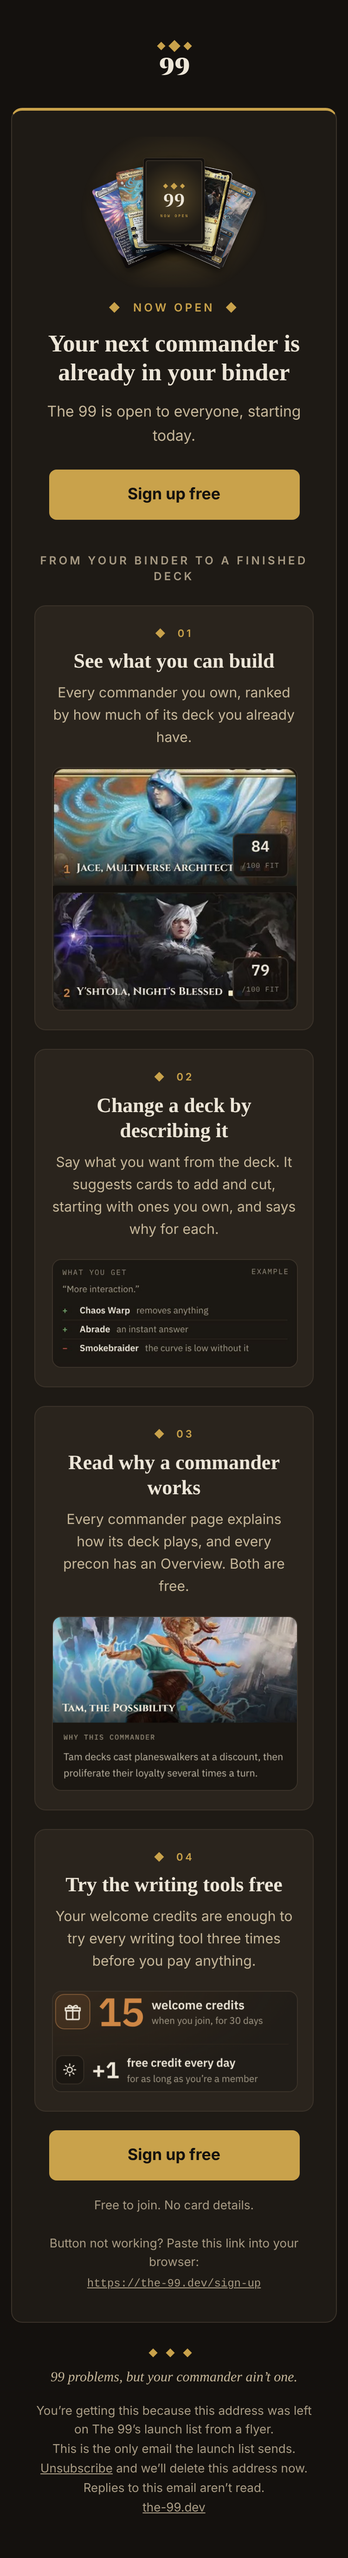
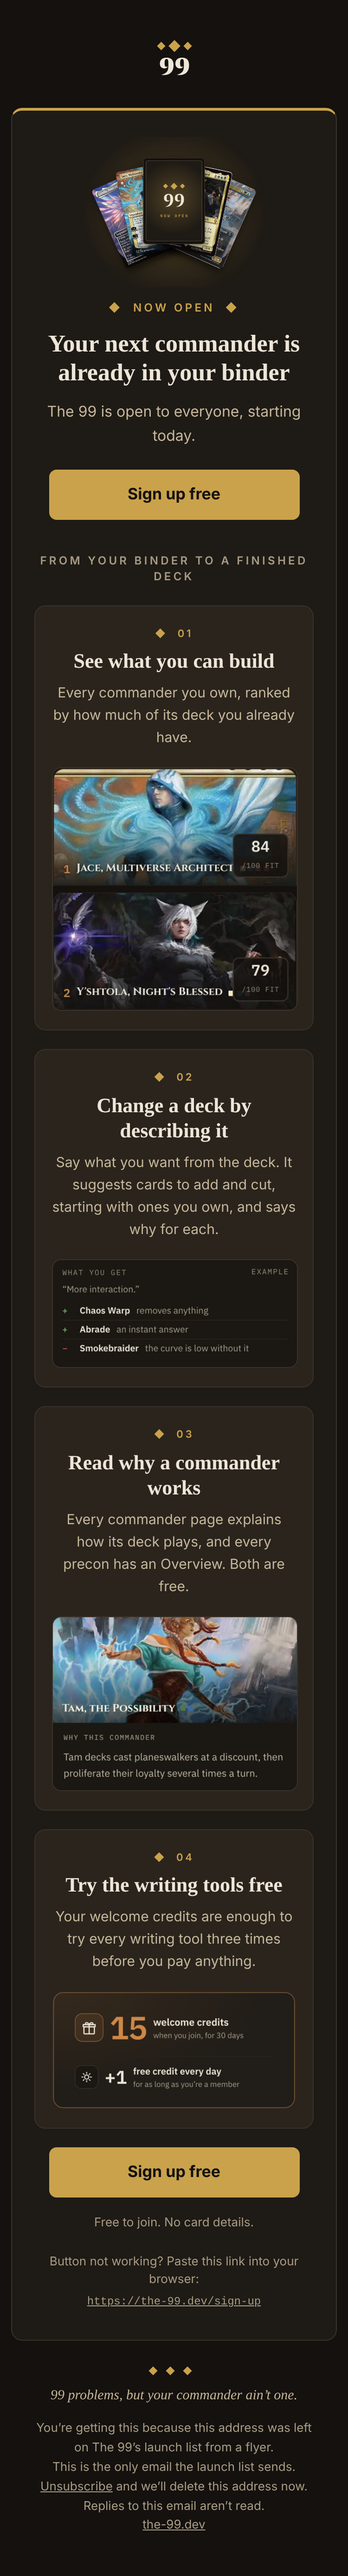
account-2 2026-11-18: launch email R2c (credits card padded)
Claude-Session: https://claude.ai/code/session_01UvpaAaogggJirkVKEr69Z1

diff --git a/account-2/design_handoff_the99_emails/addendum-launch/templates/launch-flyer.html b/account-2/design_handoff_the99_emails/addendum-launch/templates/launch-flyer.html
@@ -34,7 +34,7 @@
 <tr><td align="center" bgcolor="#C9A24B" style="background:#C9A24B;border:1px solid #C9A24B;border-radius:8px;">
 <!--[if mso]><v:roundrect xmlns:v="urn:schemas-microsoft-com:vml" href="[[signup_url]]" style="height:52px;v-text-anchor:middle;width:260px;" arcsize="16%" stroke="f" fillcolor="#C9A24B"><center style="color:#14110E;font:bold 17px Arial,sans-serif;">Sign up free</center></v:roundrect><![endif]-->
 <!--[if !mso]><!-- --><a href="[[signup_url]]" style="display:inline-block;padding:16px 44px;min-width:180px;font:bold 17px/20px -apple-system,BlinkMacSystemFont,'Segoe UI',Roboto,Helvetica,Arial,sans-serif;color:#14110E;text-decoration:none;border-radius:8px;">Sign up free</a><!--<![endif]-->
-</td></tr></table><p style="margin:0 0 22px;font:600 12px/1.4 -apple-system,BlinkMacSystemFont,'Segoe UI',Roboto,Helvetica,Arial,sans-serif;letter-spacing:.22em;text-transform:uppercase;color:#A89B84;text-align:center;">From your binder to a finished deck</p><table role="presentation" width="100%" cellpadding="0" cellspacing="0" border="0" bgcolor="#2A241D" style="margin:0 0 20px;background:#2A241D;border:1px solid #3A3229;border-radius:12px;"><tr><td class="fbox" align="center" style="padding:26px 28px 28px;text-align:center;"><p style="margin:0 0 8px;font:600 11px/1.4 -apple-system,BlinkMacSystemFont,'Segoe UI',Roboto,Helvetica,Arial,sans-serif;letter-spacing:.22em;text-transform:uppercase;color:#C9A24B;">&#9670;&nbsp;&nbsp;01</p><p style="margin:0 0 8px;font:bold 22px/1.25 Georgia,'Times New Roman',Times,serif;color:#EDE6D8;">See what you can build</p><p style="margin:0 auto 20px;max-width:400px;font:15px/1.6 -apple-system,BlinkMacSystemFont,'Segoe UI',Roboto,Helvetica,Arial,sans-serif;color:#C6B79A;">Every commander you own, ranked by how much of its deck you already have.</p><img src="https://the-99.dev/email/feature-commanders@2x.png" width="320" height="317" alt="Jace and Y&#8217;shtola, ranked with fit scores of 84 and 79 out of 100" style="display:block;width:100%;max-width:320px;height:auto;margin:0 auto;border:1px solid #3A3229;border-radius:10px;font:italic 13px/1.5 -apple-system,BlinkMacSystemFont,'Segoe UI',Roboto,Helvetica,Arial,sans-serif;color:#A89B84;"></td></tr></table><table role="presentation" width="100%" cellpadding="0" cellspacing="0" border="0" bgcolor="#2A241D" style="margin:0 0 20px;background:#2A241D;border:1px solid #3A3229;border-radius:12px;"><tr><td class="fbox" align="center" style="padding:26px 28px 28px;text-align:center;"><p style="margin:0 0 8px;font:600 11px/1.4 -apple-system,BlinkMacSystemFont,'Segoe UI',Roboto,Helvetica,Arial,sans-serif;letter-spacing:.22em;text-transform:uppercase;color:#C9A24B;">&#9670;&nbsp;&nbsp;02</p><p style="margin:0 0 8px;font:bold 22px/1.25 Georgia,'Times New Roman',Times,serif;color:#EDE6D8;">Change a deck by describing it</p><p style="margin:0 auto 20px;max-width:400px;font:15px/1.6 -apple-system,BlinkMacSystemFont,'Segoe UI',Roboto,Helvetica,Arial,sans-serif;color:#C6B79A;">Say what you want from the deck. It suggests cards to add and cut, starting with ones you own, and says why for each.</p><img src="https://the-99.dev/email/feature-tune@2x.png" width="320" height="141" alt="For &#8220;More interaction&#8221;: add Chaos Warp and Abrade, cut Smokebraider" style="display:block;width:100%;max-width:320px;height:auto;margin:0 auto;border:1px solid #3A3229;border-radius:10px;font:italic 13px/1.5 -apple-system,BlinkMacSystemFont,'Segoe UI',Roboto,Helvetica,Arial,sans-serif;color:#A89B84;"></td></tr></table><table role="presentation" width="100%" cellpadding="0" cellspacing="0" border="0" bgcolor="#2A241D" style="margin:0 0 20px;background:#2A241D;border:1px solid #3A3229;border-radius:12px;"><tr><td class="fbox" align="center" style="padding:26px 28px 28px;text-align:center;"><p style="margin:0 0 8px;font:600 11px/1.4 -apple-system,BlinkMacSystemFont,'Segoe UI',Roboto,Helvetica,Arial,sans-serif;letter-spacing:.22em;text-transform:uppercase;color:#C9A24B;">&#9670;&nbsp;&nbsp;03</p><p style="margin:0 0 8px;font:bold 22px/1.25 Georgia,'Times New Roman',Times,serif;color:#EDE6D8;">Read why a commander works</p><p style="margin:0 auto 20px;max-width:400px;font:15px/1.6 -apple-system,BlinkMacSystemFont,'Segoe UI',Roboto,Helvetica,Arial,sans-serif;color:#C6B79A;">Every commander page explains how its deck plays, and every precon has an Overview. Both are free.</p><img src="https://the-99.dev/email/feature-written@2x.png" width="320" height="227" alt="Tam, the Possibility, with why this commander is worth building" style="display:block;width:100%;max-width:320px;height:auto;margin:0 auto;border:1px solid #3A3229;border-radius:10px;font:italic 13px/1.5 -apple-system,BlinkMacSystemFont,'Segoe UI',Roboto,Helvetica,Arial,sans-serif;color:#A89B84;"></td></tr></table><table role="presentation" width="100%" cellpadding="0" cellspacing="0" border="0" bgcolor="#2A241D" style="margin:0 0 20px;background:#2A241D;border:1px solid #3A3229;border-radius:12px;"><tr><td class="fbox" align="center" style="padding:26px 28px 28px;text-align:center;"><p style="margin:0 0 8px;font:600 11px/1.4 -apple-system,BlinkMacSystemFont,'Segoe UI',Roboto,Helvetica,Arial,sans-serif;letter-spacing:.22em;text-transform:uppercase;color:#C9A24B;">&#9670;&nbsp;&nbsp;04</p><p style="margin:0 0 8px;font:bold 22px/1.25 Georgia,'Times New Roman',Times,serif;color:#EDE6D8;">Try the writing tools free</p><p style="margin:0 auto 20px;max-width:400px;font:15px/1.6 -apple-system,BlinkMacSystemFont,'Segoe UI',Roboto,Helvetica,Arial,sans-serif;color:#C6B79A;">Your welcome credits are enough to try every writing tool three times before you pay anything.</p><img src="https://the-99.dev/email/feature-credits@2x.png" width="320" height="131" alt="15 welcome credits when you join, plus 1 free credit every day" style="display:block;width:100%;max-width:320px;height:auto;margin:0 auto;border:1px solid #3A3229;border-radius:10px;font:italic 13px/1.5 -apple-system,BlinkMacSystemFont,'Segoe UI',Roboto,Helvetica,Arial,sans-serif;color:#A89B84;"></td></tr></table><table role="presentation" align="center" cellpadding="0" cellspacing="0" border="0" style="margin:0 auto 18px;">
+</td></tr></table><p style="margin:0 0 22px;font:600 12px/1.4 -apple-system,BlinkMacSystemFont,'Segoe UI',Roboto,Helvetica,Arial,sans-serif;letter-spacing:.22em;text-transform:uppercase;color:#A89B84;text-align:center;">From your binder to a finished deck</p><table role="presentation" width="100%" cellpadding="0" cellspacing="0" border="0" bgcolor="#2A241D" style="margin:0 0 20px;background:#2A241D;border:1px solid #3A3229;border-radius:12px;"><tr><td class="fbox" align="center" style="padding:26px 28px 28px;text-align:center;"><p style="margin:0 0 8px;font:600 11px/1.4 -apple-system,BlinkMacSystemFont,'Segoe UI',Roboto,Helvetica,Arial,sans-serif;letter-spacing:.22em;text-transform:uppercase;color:#C9A24B;">&#9670;&nbsp;&nbsp;01</p><p style="margin:0 0 8px;font:bold 22px/1.25 Georgia,'Times New Roman',Times,serif;color:#EDE6D8;">See what you can build</p><p style="margin:0 auto 20px;max-width:400px;font:15px/1.6 -apple-system,BlinkMacSystemFont,'Segoe UI',Roboto,Helvetica,Arial,sans-serif;color:#C6B79A;">Every commander you own, ranked by how much of its deck you already have.</p><img src="https://the-99.dev/email/feature-commanders@2x.png" width="320" height="317" alt="Jace and Y&#8217;shtola, ranked with fit scores of 84 and 79 out of 100" style="display:block;width:100%;max-width:320px;height:auto;margin:0 auto;border:1px solid #3A3229;border-radius:10px;font:italic 13px/1.5 -apple-system,BlinkMacSystemFont,'Segoe UI',Roboto,Helvetica,Arial,sans-serif;color:#A89B84;"></td></tr></table><table role="presentation" width="100%" cellpadding="0" cellspacing="0" border="0" bgcolor="#2A241D" style="margin:0 0 20px;background:#2A241D;border:1px solid #3A3229;border-radius:12px;"><tr><td class="fbox" align="center" style="padding:26px 28px 28px;text-align:center;"><p style="margin:0 0 8px;font:600 11px/1.4 -apple-system,BlinkMacSystemFont,'Segoe UI',Roboto,Helvetica,Arial,sans-serif;letter-spacing:.22em;text-transform:uppercase;color:#C9A24B;">&#9670;&nbsp;&nbsp;02</p><p style="margin:0 0 8px;font:bold 22px/1.25 Georgia,'Times New Roman',Times,serif;color:#EDE6D8;">Change a deck by describing it</p><p style="margin:0 auto 20px;max-width:400px;font:15px/1.6 -apple-system,BlinkMacSystemFont,'Segoe UI',Roboto,Helvetica,Arial,sans-serif;color:#C6B79A;">Say what you want from the deck. It suggests cards to add and cut, starting with ones you own, and says why for each.</p><img src="https://the-99.dev/email/feature-tune@2x.png" width="320" height="141" alt="For &#8220;More interaction&#8221;: add Chaos Warp and Abrade, cut Smokebraider" style="display:block;width:100%;max-width:320px;height:auto;margin:0 auto;border:1px solid #3A3229;border-radius:10px;font:italic 13px/1.5 -apple-system,BlinkMacSystemFont,'Segoe UI',Roboto,Helvetica,Arial,sans-serif;color:#A89B84;"></td></tr></table><table role="presentation" width="100%" cellpadding="0" cellspacing="0" border="0" bgcolor="#2A241D" style="margin:0 0 20px;background:#2A241D;border:1px solid #3A3229;border-radius:12px;"><tr><td class="fbox" align="center" style="padding:26px 28px 28px;text-align:center;"><p style="margin:0 0 8px;font:600 11px/1.4 -apple-system,BlinkMacSystemFont,'Segoe UI',Roboto,Helvetica,Arial,sans-serif;letter-spacing:.22em;text-transform:uppercase;color:#C9A24B;">&#9670;&nbsp;&nbsp;03</p><p style="margin:0 0 8px;font:bold 22px/1.25 Georgia,'Times New Roman',Times,serif;color:#EDE6D8;">Read why a commander works</p><p style="margin:0 auto 20px;max-width:400px;font:15px/1.6 -apple-system,BlinkMacSystemFont,'Segoe UI',Roboto,Helvetica,Arial,sans-serif;color:#C6B79A;">Every commander page explains how its deck plays, and every precon has an Overview. Both are free.</p><img src="https://the-99.dev/email/feature-written@2x.png" width="320" height="227" alt="Tam, the Possibility, with why this commander is worth building" style="display:block;width:100%;max-width:320px;height:auto;margin:0 auto;border:1px solid #3A3229;border-radius:10px;font:italic 13px/1.5 -apple-system,BlinkMacSystemFont,'Segoe UI',Roboto,Helvetica,Arial,sans-serif;color:#A89B84;"></td></tr></table><table role="presentation" width="100%" cellpadding="0" cellspacing="0" border="0" bgcolor="#2A241D" style="margin:0 0 20px;background:#2A241D;border:1px solid #3A3229;border-radius:12px;"><tr><td class="fbox" align="center" style="padding:26px 28px 28px;text-align:center;"><p style="margin:0 0 8px;font:600 11px/1.4 -apple-system,BlinkMacSystemFont,'Segoe UI',Roboto,Helvetica,Arial,sans-serif;letter-spacing:.22em;text-transform:uppercase;color:#C9A24B;">&#9670;&nbsp;&nbsp;04</p><p style="margin:0 0 8px;font:bold 22px/1.25 Georgia,'Times New Roman',Times,serif;color:#EDE6D8;">Try the writing tools free</p><p style="margin:0 auto 20px;max-width:400px;font:15px/1.6 -apple-system,BlinkMacSystemFont,'Segoe UI',Roboto,Helvetica,Arial,sans-serif;color:#C6B79A;">Your welcome credits are enough to try every writing tool three times before you pay anything.</p><img src="https://the-99.dev/email/feature-credits@2x.png" width="320" height="155" alt="15 welcome credits when you join, plus 1 free credit every day" style="display:block;width:100%;max-width:320px;height:auto;margin:0 auto;border:0;font:italic 13px/1.5 -apple-system,BlinkMacSystemFont,'Segoe UI',Roboto,Helvetica,Arial,sans-serif;color:#A89B84;"></td></tr></table><table role="presentation" align="center" cellpadding="0" cellspacing="0" border="0" style="margin:0 auto 18px;">
 <tr><td align="center" bgcolor="#C9A24B" style="background:#C9A24B;border:1px solid #C9A24B;border-radius:8px;">
 <!--[if mso]><v:roundrect xmlns:v="urn:schemas-microsoft-com:vml" href="[[signup_url]]" style="height:52px;v-text-anchor:middle;width:260px;" arcsize="16%" stroke="f" fillcolor="#C9A24B"><center style="color:#14110E;font:bold 17px Arial,sans-serif;">Sign up free</center></v:roundrect><![endif]-->
 <!--[if !mso]><!-- --><a href="[[signup_url]]" style="display:inline-block;padding:16px 44px;min-width:180px;font:bold 17px/20px -apple-system,BlinkMacSystemFont,'Segoe UI',Roboto,Helvetica,Arial,sans-serif;color:#14110E;text-decoration:none;border-radius:8px;">Sign up free</a><!--<![endif]-->

diff --git a/account-2/design_handoff_the99_emails/addendum-launch/templates/launch.html b/account-2/design_handoff_the99_emails/addendum-launch/templates/launch.html
@@ -34,7 +34,7 @@
 <tr><td align="center" bgcolor="#C9A24B" style="background:#C9A24B;border:1px solid #C9A24B;border-radius:8px;">
 <!--[if mso]><v:roundrect xmlns:v="urn:schemas-microsoft-com:vml" href="[[signup_url]]" style="height:52px;v-text-anchor:middle;width:260px;" arcsize="16%" stroke="f" fillcolor="#C9A24B"><center style="color:#14110E;font:bold 17px Arial,sans-serif;">Sign up free</center></v:roundrect><![endif]-->
 <!--[if !mso]><!-- --><a href="[[signup_url]]" style="display:inline-block;padding:16px 44px;min-width:180px;font:bold 17px/20px -apple-system,BlinkMacSystemFont,'Segoe UI',Roboto,Helvetica,Arial,sans-serif;color:#14110E;text-decoration:none;border-radius:8px;">Sign up free</a><!--<![endif]-->
-</td></tr></table><p style="margin:0 0 22px;font:600 12px/1.4 -apple-system,BlinkMacSystemFont,'Segoe UI',Roboto,Helvetica,Arial,sans-serif;letter-spacing:.22em;text-transform:uppercase;color:#A89B84;text-align:center;">From your binder to a finished deck</p><table role="presentation" width="100%" cellpadding="0" cellspacing="0" border="0" bgcolor="#2A241D" style="margin:0 0 20px;background:#2A241D;border:1px solid #3A3229;border-radius:12px;"><tr><td class="fbox" align="center" style="padding:26px 28px 28px;text-align:center;"><p style="margin:0 0 8px;font:600 11px/1.4 -apple-system,BlinkMacSystemFont,'Segoe UI',Roboto,Helvetica,Arial,sans-serif;letter-spacing:.22em;text-transform:uppercase;color:#C9A24B;">&#9670;&nbsp;&nbsp;01</p><p style="margin:0 0 8px;font:bold 22px/1.25 Georgia,'Times New Roman',Times,serif;color:#EDE6D8;">See what you can build</p><p style="margin:0 auto 20px;max-width:400px;font:15px/1.6 -apple-system,BlinkMacSystemFont,'Segoe UI',Roboto,Helvetica,Arial,sans-serif;color:#C6B79A;">Every commander you own, ranked by how much of its deck you already have.</p><img src="https://the-99.dev/email/feature-commanders@2x.png" width="320" height="317" alt="Jace and Y&#8217;shtola, ranked with fit scores of 84 and 79 out of 100" style="display:block;width:100%;max-width:320px;height:auto;margin:0 auto;border:1px solid #3A3229;border-radius:10px;font:italic 13px/1.5 -apple-system,BlinkMacSystemFont,'Segoe UI',Roboto,Helvetica,Arial,sans-serif;color:#A89B84;"></td></tr></table><table role="presentation" width="100%" cellpadding="0" cellspacing="0" border="0" bgcolor="#2A241D" style="margin:0 0 20px;background:#2A241D;border:1px solid #3A3229;border-radius:12px;"><tr><td class="fbox" align="center" style="padding:26px 28px 28px;text-align:center;"><p style="margin:0 0 8px;font:600 11px/1.4 -apple-system,BlinkMacSystemFont,'Segoe UI',Roboto,Helvetica,Arial,sans-serif;letter-spacing:.22em;text-transform:uppercase;color:#C9A24B;">&#9670;&nbsp;&nbsp;02</p><p style="margin:0 0 8px;font:bold 22px/1.25 Georgia,'Times New Roman',Times,serif;color:#EDE6D8;">Change a deck by describing it</p><p style="margin:0 auto 20px;max-width:400px;font:15px/1.6 -apple-system,BlinkMacSystemFont,'Segoe UI',Roboto,Helvetica,Arial,sans-serif;color:#C6B79A;">Say what you want from the deck. It suggests cards to add and cut, starting with ones you own, and says why for each.</p><img src="https://the-99.dev/email/feature-tune@2x.png" width="320" height="141" alt="For &#8220;More interaction&#8221;: add Chaos Warp and Abrade, cut Smokebraider" style="display:block;width:100%;max-width:320px;height:auto;margin:0 auto;border:1px solid #3A3229;border-radius:10px;font:italic 13px/1.5 -apple-system,BlinkMacSystemFont,'Segoe UI',Roboto,Helvetica,Arial,sans-serif;color:#A89B84;"></td></tr></table><table role="presentation" width="100%" cellpadding="0" cellspacing="0" border="0" bgcolor="#2A241D" style="margin:0 0 20px;background:#2A241D;border:1px solid #3A3229;border-radius:12px;"><tr><td class="fbox" align="center" style="padding:26px 28px 28px;text-align:center;"><p style="margin:0 0 8px;font:600 11px/1.4 -apple-system,BlinkMacSystemFont,'Segoe UI',Roboto,Helvetica,Arial,sans-serif;letter-spacing:.22em;text-transform:uppercase;color:#C9A24B;">&#9670;&nbsp;&nbsp;03</p><p style="margin:0 0 8px;font:bold 22px/1.25 Georgia,'Times New Roman',Times,serif;color:#EDE6D8;">Read why a commander works</p><p style="margin:0 auto 20px;max-width:400px;font:15px/1.6 -apple-system,BlinkMacSystemFont,'Segoe UI',Roboto,Helvetica,Arial,sans-serif;color:#C6B79A;">Every commander page explains how its deck plays, and every precon has an Overview. Both are free.</p><img src="https://the-99.dev/email/feature-written@2x.png" width="320" height="227" alt="Tam, the Possibility, with why this commander is worth building" style="display:block;width:100%;max-width:320px;height:auto;margin:0 auto;border:1px solid #3A3229;border-radius:10px;font:italic 13px/1.5 -apple-system,BlinkMacSystemFont,'Segoe UI',Roboto,Helvetica,Arial,sans-serif;color:#A89B84;"></td></tr></table><table role="presentation" width="100%" cellpadding="0" cellspacing="0" border="0" bgcolor="#2A241D" style="margin:0 0 20px;background:#2A241D;border:1px solid #3A3229;border-radius:12px;"><tr><td class="fbox" align="center" style="padding:26px 28px 28px;text-align:center;"><p style="margin:0 0 8px;font:600 11px/1.4 -apple-system,BlinkMacSystemFont,'Segoe UI',Roboto,Helvetica,Arial,sans-serif;letter-spacing:.22em;text-transform:uppercase;color:#C9A24B;">&#9670;&nbsp;&nbsp;04</p><p style="margin:0 0 8px;font:bold 22px/1.25 Georgia,'Times New Roman',Times,serif;color:#EDE6D8;">Try the writing tools free</p><p style="margin:0 auto 20px;max-width:400px;font:15px/1.6 -apple-system,BlinkMacSystemFont,'Segoe UI',Roboto,Helvetica,Arial,sans-serif;color:#C6B79A;">Your welcome credits are enough to try every writing tool three times before you pay anything.</p><img src="https://the-99.dev/email/feature-credits@2x.png" width="320" height="131" alt="15 welcome credits when you join, plus 1 free credit every day" style="display:block;width:100%;max-width:320px;height:auto;margin:0 auto;border:1px solid #3A3229;border-radius:10px;font:italic 13px/1.5 -apple-system,BlinkMacSystemFont,'Segoe UI',Roboto,Helvetica,Arial,sans-serif;color:#A89B84;"></td></tr></table><table role="presentation" align="center" cellpadding="0" cellspacing="0" border="0" style="margin:0 auto 18px;">
+</td></tr></table><p style="margin:0 0 22px;font:600 12px/1.4 -apple-system,BlinkMacSystemFont,'Segoe UI',Roboto,Helvetica,Arial,sans-serif;letter-spacing:.22em;text-transform:uppercase;color:#A89B84;text-align:center;">From your binder to a finished deck</p><table role="presentation" width="100%" cellpadding="0" cellspacing="0" border="0" bgcolor="#2A241D" style="margin:0 0 20px;background:#2A241D;border:1px solid #3A3229;border-radius:12px;"><tr><td class="fbox" align="center" style="padding:26px 28px 28px;text-align:center;"><p style="margin:0 0 8px;font:600 11px/1.4 -apple-system,BlinkMacSystemFont,'Segoe UI',Roboto,Helvetica,Arial,sans-serif;letter-spacing:.22em;text-transform:uppercase;color:#C9A24B;">&#9670;&nbsp;&nbsp;01</p><p style="margin:0 0 8px;font:bold 22px/1.25 Georgia,'Times New Roman',Times,serif;color:#EDE6D8;">See what you can build</p><p style="margin:0 auto 20px;max-width:400px;font:15px/1.6 -apple-system,BlinkMacSystemFont,'Segoe UI',Roboto,Helvetica,Arial,sans-serif;color:#C6B79A;">Every commander you own, ranked by how much of its deck you already have.</p><img src="https://the-99.dev/email/feature-commanders@2x.png" width="320" height="317" alt="Jace and Y&#8217;shtola, ranked with fit scores of 84 and 79 out of 100" style="display:block;width:100%;max-width:320px;height:auto;margin:0 auto;border:1px solid #3A3229;border-radius:10px;font:italic 13px/1.5 -apple-system,BlinkMacSystemFont,'Segoe UI',Roboto,Helvetica,Arial,sans-serif;color:#A89B84;"></td></tr></table><table role="presentation" width="100%" cellpadding="0" cellspacing="0" border="0" bgcolor="#2A241D" style="margin:0 0 20px;background:#2A241D;border:1px solid #3A3229;border-radius:12px;"><tr><td class="fbox" align="center" style="padding:26px 28px 28px;text-align:center;"><p style="margin:0 0 8px;font:600 11px/1.4 -apple-system,BlinkMacSystemFont,'Segoe UI',Roboto,Helvetica,Arial,sans-serif;letter-spacing:.22em;text-transform:uppercase;color:#C9A24B;">&#9670;&nbsp;&nbsp;02</p><p style="margin:0 0 8px;font:bold 22px/1.25 Georgia,'Times New Roman',Times,serif;color:#EDE6D8;">Change a deck by describing it</p><p style="margin:0 auto 20px;max-width:400px;font:15px/1.6 -apple-system,BlinkMacSystemFont,'Segoe UI',Roboto,Helvetica,Arial,sans-serif;color:#C6B79A;">Say what you want from the deck. It suggests cards to add and cut, starting with ones you own, and says why for each.</p><img src="https://the-99.dev/email/feature-tune@2x.png" width="320" height="141" alt="For &#8220;More interaction&#8221;: add Chaos Warp and Abrade, cut Smokebraider" style="display:block;width:100%;max-width:320px;height:auto;margin:0 auto;border:1px solid #3A3229;border-radius:10px;font:italic 13px/1.5 -apple-system,BlinkMacSystemFont,'Segoe UI',Roboto,Helvetica,Arial,sans-serif;color:#A89B84;"></td></tr></table><table role="presentation" width="100%" cellpadding="0" cellspacing="0" border="0" bgcolor="#2A241D" style="margin:0 0 20px;background:#2A241D;border:1px solid #3A3229;border-radius:12px;"><tr><td class="fbox" align="center" style="padding:26px 28px 28px;text-align:center;"><p style="margin:0 0 8px;font:600 11px/1.4 -apple-system,BlinkMacSystemFont,'Segoe UI',Roboto,Helvetica,Arial,sans-serif;letter-spacing:.22em;text-transform:uppercase;color:#C9A24B;">&#9670;&nbsp;&nbsp;03</p><p style="margin:0 0 8px;font:bold 22px/1.25 Georgia,'Times New Roman',Times,serif;color:#EDE6D8;">Read why a commander works</p><p style="margin:0 auto 20px;max-width:400px;font:15px/1.6 -apple-system,BlinkMacSystemFont,'Segoe UI',Roboto,Helvetica,Arial,sans-serif;color:#C6B79A;">Every commander page explains how its deck plays, and every precon has an Overview. Both are free.</p><img src="https://the-99.dev/email/feature-written@2x.png" width="320" height="227" alt="Tam, the Possibility, with why this commander is worth building" style="display:block;width:100%;max-width:320px;height:auto;margin:0 auto;border:1px solid #3A3229;border-radius:10px;font:italic 13px/1.5 -apple-system,BlinkMacSystemFont,'Segoe UI',Roboto,Helvetica,Arial,sans-serif;color:#A89B84;"></td></tr></table><table role="presentation" width="100%" cellpadding="0" cellspacing="0" border="0" bgcolor="#2A241D" style="margin:0 0 20px;background:#2A241D;border:1px solid #3A3229;border-radius:12px;"><tr><td class="fbox" align="center" style="padding:26px 28px 28px;text-align:center;"><p style="margin:0 0 8px;font:600 11px/1.4 -apple-system,BlinkMacSystemFont,'Segoe UI',Roboto,Helvetica,Arial,sans-serif;letter-spacing:.22em;text-transform:uppercase;color:#C9A24B;">&#9670;&nbsp;&nbsp;04</p><p style="margin:0 0 8px;font:bold 22px/1.25 Georgia,'Times New Roman',Times,serif;color:#EDE6D8;">Try the writing tools free</p><p style="margin:0 auto 20px;max-width:400px;font:15px/1.6 -apple-system,BlinkMacSystemFont,'Segoe UI',Roboto,Helvetica,Arial,sans-serif;color:#C6B79A;">Your welcome credits are enough to try every writing tool three times before you pay anything.</p><img src="https://the-99.dev/email/feature-credits@2x.png" width="320" height="155" alt="15 welcome credits when you join, plus 1 free credit every day" style="display:block;width:100%;max-width:320px;height:auto;margin:0 auto;border:0;font:italic 13px/1.5 -apple-system,BlinkMacSystemFont,'Segoe UI',Roboto,Helvetica,Arial,sans-serif;color:#A89B84;"></td></tr></table><table role="presentation" align="center" cellpadding="0" cellspacing="0" border="0" style="margin:0 auto 18px;">
 <tr><td align="center" bgcolor="#C9A24B" style="background:#C9A24B;border:1px solid #C9A24B;border-radius:8px;">
 <!--[if mso]><v:roundrect xmlns:v="urn:schemas-microsoft-com:vml" href="[[signup_url]]" style="height:52px;v-text-anchor:middle;width:260px;" arcsize="16%" stroke="f" fillcolor="#C9A24B"><center style="color:#14110E;font:bold 17px Arial,sans-serif;">Sign up free</center></v:roundrect><![endif]-->
 <!--[if !mso]><!-- --><a href="[[signup_url]]" style="display:inline-block;padding:16px 44px;min-width:180px;font:bold 17px/20px -apple-system,BlinkMacSystemFont,'Segoe UI',Roboto,Helvetica,Arial,sans-serif;color:#14110E;text-decoration:none;border-radius:8px;">Sign up free</a><!--<![endif]-->

diff --git a/account-2/design_handoff_the99_emails/addendum-launch/Dark-Mode.dc.html b/account-2/design_handoff_the99_emails/addendum-launch/Dark-Mode.dc.html
@@ -27,20 +27,20 @@ code{font:12px 'IBM Plex Mono',monospace;color:#C9A24B}
 </div>
 <div style="display: flex; gap: 40px; align-items: flex-start">
 <div style="display: flex; flex-direction: column; gap: 10px; width: 375px">
-<img class="fm" src="art/launch-375-invert.png" alt="The launch email at 375 with Gmail iOS inversion simulated: parchment ground, dark heading, brass button in a deeper brass" style="width: 375px; height: 2751px">
+<img class="fm" src="art/launch-375-invert.png" alt="The launch email at 375 with Gmail iOS inversion simulated: parchment ground, dark heading, brass button in a deeper brass" style="width: 375px; height: 2770px">
 <p class="k">D1 · light · Gmail iOS · 375</p>
 </div>
 <div style="display: flex; flex-direction: column; gap: 10px; width: 648px">
-<img class="fm" src="art/launch-648-invert.png" alt="The launch email at desktop width with the inversion simulated" style="width: 648px; height: 2834px">
+<img class="fm" src="art/launch-648-invert.png" alt="The launch email at desktop width with the inversion simulated" style="width: 648px; height: 2857px">
 <p class="k">D2 · light · inverted · desktop</p>
 <p class="cap">The feature captures stay dark on parchment, framed by their 1px line: they read as pictures of the app, which they are.</p>
 </div>
 <div style="display: flex; flex-direction: column; gap: 10px; width: 375px">
-<img class="fm" src="art/launch-375-noimg.png" alt="The launch email at 375 with images blocked: an empty box where the hand was, alt text inside" style="width: 375px; height: 2751px">
+<img class="fm" src="art/launch-375-noimg.png" alt="The launch email at 375 with images blocked: an empty box where the hand was, alt text inside" style="width: 375px; height: 2770px">
 <p class="k">D3 · dark · images off · 375</p>
 </div>
 <div style="display: flex; flex-direction: column; gap: 10px; width: 648px">
-<img class="fm" src="art/launch-648-noimg.png" alt="The launch email at desktop width with images blocked" style="width: 648px; height: 2834px">
+<img class="fm" src="art/launch-648-noimg.png" alt="The launch email at desktop width with images blocked" style="width: 648px; height: 2857px">
 <p class="k">D4 · dark · images off · desktop</p>
 <p class="cap">Fan alt: <b>“A fan of commander cards around The 99’s card back, which reads Now open”</b>; each feature image names what it shows. Every image keeps its box so nothing jumps when images load.</p>
 </div>

diff --git a/account-2/design_handoff_the99_emails/addendum-launch/Launch.dc.html b/account-2/design_handoff_the99_emails/addendum-launch/Launch.dc.html
@@ -27,17 +27,17 @@ code{font:12px 'IBM Plex Mono',monospace;color:#C9A24B}
 </div>
 <div style="display: flex; gap: 44px; align-items: flex-start">
 <div style="display: flex; flex-direction: column; gap: 10px; width: 648px">
-<img class="fm" src="art/launch-648.png" alt="The launch email at desktop width: a fan of commander cards around a 99 card back reading Now open, the heading, a Sign up free button, four feature boxes with captures of the app, a brass Sign up free button and the footer with Unsubscribe" style="width: 648px; height: 2834px">
+<img class="fm" src="art/launch-648.png" alt="The launch email at desktop width: a fan of commander cards around a 99 card back reading Now open, the heading, a Sign up free button, four feature boxes with captures of the app, a brass Sign up free button and the footer with Unsubscribe" style="width: 648px; height: 2857px">
 <p class="k">L1 · desktop · 600 column · from the landing page</p>
 <p class="cap">Subject <b>The 99 is open</b> · preheader <b>Make a free account and see what your cards can build. You start with 15 credits.</b></p>
 </div>
 <div style="display: flex; flex-direction: column; gap: 10px; width: 375px">
-<img class="fm" src="art/launch-375.png" alt="The launch email at 375 wide" style="width: 375px; height: 2751px">
+<img class="fm" src="art/launch-375.png" alt="The launch email at 375 wide" style="width: 375px; height: 2770px">
 <p class="k">L2 · phone · 375 · from the landing page</p>
 <p class="cap">Same single column; the boxes take 18 sides and the images fill them. Panel sides 24, heading 26.</p>
 </div>
 <div style="display: flex; flex-direction: column; gap: 10px; width: 375px">
-<img class="fm" src="art/launch-flyer-375.png" alt="The launch email at 375 for an address left on a flyer" style="width: 375px; height: 2751px">
+<img class="fm" src="art/launch-flyer-375.png" alt="The launch email at 375 for an address left on a flyer" style="width: 375px; height: 2770px">
 <p class="k">L3 · phone · 375 · from a flyer</p>
 <p class="cap">Only the reason line changes: <b>“…left on The 99’s launch list from a flyer.”</b> Every other word is the same, and no code is named.</p>
 </div>

diff --git a/account-2/design_handoff_the99_emails/addendum-launch/Main.dc.html b/account-2/design_handoff_the99_emails/addendum-launch/Main.dc.html
@@ -38,7 +38,7 @@ table.sj td b{color:#EDE6D8}
 </div>
 <div class="box">
 <p class="k">R2c · Hugh’s third pass and the repeat sweep (2026-11-18)</p>
-<p class="li"><b>Credits image:</b> now just the 15 and +1 rows. The “That’s enough…” paragraph and the <b>What credits cost</b> link are gone (that link only opens a sheet on the landing).</p>
+<p class="li"><b>Credits image:</b> now the landing’s whole value card, redrawn with room around it (30/34 padding, its own border and corners, no second frame), holding just the 15 and +1 rows. The “That’s enough…” paragraph and the <b>What credits cost</b> link are gone (that link only opens a sheet on the landing).</p>
 <p class="li"><b>Repeats removed:</b> F4 is titled <b>“Try the writing tools free”</b> with one sentence, “Your welcome credits are enough to try every writing tool three times before you pay anything.”, since the image already says 15 and +1 a day · the Suggested changes image is only its example (its header repeated our sentence) · the commander tiles show the art, rank and fit only (their prose repeated F3’s idea) · Tam’s read drops the inert “Open its page ›” · the lead is now just “The 99 is open to everyone, starting today.” (its second half repeated the heading and F1).</p>
 <p class="li"><b>Plain text keeps the facts</b> the pictures carry: F4 reads “You start with 15 welcome credits, enough to try every writing tool three times before you pay anything, and get 1 free credit every day.”</p>
 </div>

diff --git a/account-2/design_handoff_the99_emails/addendum-launch/scratch-gen/launch.py b/account-2/design_handoff_the99_emails/addendum-launch/scratch-gen/launch.py
@@ -54,7 +54,7 @@ FEATURES = [
     ("written", 170, "Read why a commander works",
      "Every commander page explains how its deck plays, and every precon has an Overview. Both are free.",
      "Tam, the Possibility, with why this commander is worth building"),
-    ("credits", 98, "Try the writing tools free",
+    ("credits", 116, "Try the writing tools free",
      "Your welcome credits are enough to try every writing tool three times before you pay anything.",
      "15 welcome credits when you join, plus 1 free credit every day"),
 ]
@@ -68,6 +68,8 @@ def feature(i, key, h, title, body, alt):
     """One feature, one box: the numbered label, the title and the sentence, then its capture of the shipped landing
     below them (320 wide, fluid on a phone). One column at every width, so each image sits under the words it shows."""
     w = 320
+    # The credits capture is the landing's whole value card (own border, radius and padding, transparent corners): no second frame.
+    frame = "border:0;" if key == "credits" else f"border:1px solid {C['line']};border-radius:10px;"
     hh = round(h * w / 240)
     return (f'<table role="presentation" width="100%" cellpadding="0" cellspacing="0" border="0" bgcolor="{C["elevated"]}" '
             f'style="margin:0 0 20px;background:{C["elevated"]};border:1px solid {C["line"]};border-radius:12px;"><tr>'
@@ -76,7 +78,7 @@ def feature(i, key, h, title, body, alt):
             f'<p style="margin:0 0 8px;font:bold 22px/1.25 {SERIF};color:{C["h"]};">{title}</p>'
             f'<p style="margin:0 auto 20px;max-width:400px;font:15px/1.6 {SANS};color:{C["body"]};">{body}</p>'
             f'<img src="{ORIGIN}/email/feature-{key}@2x.png" width="{w}" height="{hh}" alt="{alt}" '
-            f'style="display:block;width:100%;max-width:{w}px;height:auto;margin:0 auto;border:1px solid {C["line"]};border-radius:10px;'
+            f'style="display:block;width:100%;max-width:{w}px;height:auto;margin:0 auto;{frame}'
             f'font:italic 13px/1.5 {SANS};color:{C["muted"]};"></td></tr></table>')
 
 

diff --git a/account-2/design_handoff_the99_emails/addendum-launch/README.md b/account-2/design_handoff_the99_emails/addendum-launch/README.md
@@ -36,7 +36,8 @@ the What credits cost link (a landing-only sheet); sweep for repeated copy (R2c,
 4. **Four feature boxes** under the landing’s “From your binder to a finished deck”: one elevated box each, one column
    at every width: brass ◆ 0n label, Georgia 22 title, one sentence, then the capture of the shipped landing it describes
    (320 wide, fluid; 18 sides on a phone). Captures, cropped so no picture repeats the words beside it: two commander tiles (art,
-   rank, fit only), Suggested changes’ example only, Tam’s read without its link, the 15 and +1 rows only (`art/feature-*@2x.png`, 480 wide).
+   rank, fit only), Suggested changes’ example only, Tam’s read without its link, the landing’s value card redrawn with
+   only the 15 and +1 rows and room around them (`scratch-gen/credits.cjs`; its own border, no second frame) (`art/feature-*@2x.png`, 480 wide).
 5. **Two Sign up free buttons, one action**: under the lead for readers who already know, and after the features with
    “Free to join. No card details.” and the raw link. Same words, same link. The text twin carries the link at both
    places too. No codes line.
